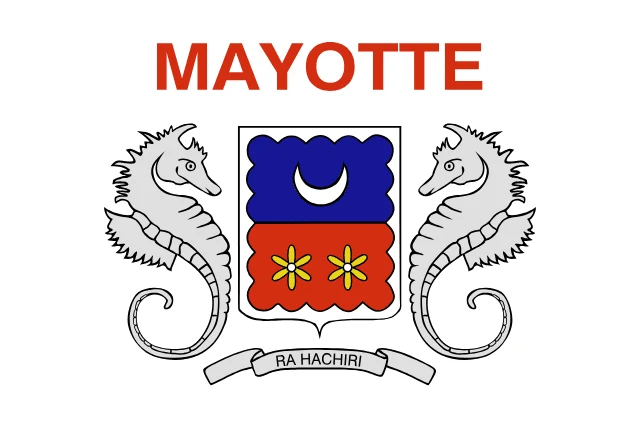
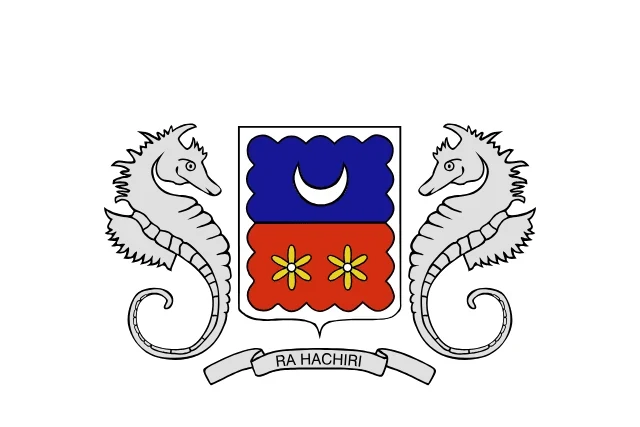
Hide the name on the Mayotte flag and reset its card

Changed region(s): [[0.2188, 0.0913, 0.7812, 0.2131]]

diff --git a/app/src/main/java/com/example/myapp/flashcards/Repository.kt b/app/src/main/java/com/example/myapp/flashcards/Repository.kt
@@ -157,6 +157,11 @@ class FlashcardRepository(private val context: Context) {
             SEEDS.filter { (version, _) -> version > seeded }.forEach { (_, file) -> seedAssets(file) }
             context.flashcardDataStore.edit { it[seedVersionKey] = SEEDS.last().first }
         }
+        val reset = context.flashcardDataStore.data.first()[resetVersionKey] ?: 0
+        if (reset < RESETS.last().first) {
+            RESETS.filter { (version, _) -> version > reset }.forEach { (_, id) -> resetElement(id) }
+            context.flashcardDataStore.edit { it[resetVersionKey] = RESETS.last().first }
+        }
         dao.purgeMasteredCards(SIX_MONTHS_MINUTES, builtinListIds)
         context.sweepCardImages(dao.getImages())
     }
@@ -179,6 +184,12 @@ class FlashcardRepository(private val context: Context) {
             4 to "seed_prefectures.json",
             4 to "seed_dept_numbers.json",
             5 to "seed_flags.json"
+        )
+        private val resetVersionKey = intPreferencesKey("reset_version")
+        // Builtin cards whose text or picture was edited, with the version that shipped the edit:
+        // their progress is wiped once, since they may have been learned from the old version.
+        private val RESETS = listOf(
+            1 to "flag-yt"
         )
         private const val SIX_MONTHS_MINUTES = 6 * 30 * 24 * 60
         private val builtinListIds = listOf(

diff --git a/src/generate_flags.py b/src/generate_flags.py
@@ -4,7 +4,7 @@ import json
 import urllib.request
 from pathlib import Path
 
-from PIL import Image
+from PIL import Image, ImageDraw
 
 ASSETS = Path("app/src/main/assets")
 FLAGS_DIR = ASSETS / "flags"
@@ -22,6 +22,14 @@ RENAMES = {
 }
 # Territories flying their sovereign's flag would be the same card with two answers.
 SOVEREIGN_FIRST = ["fr", "no", "us", "au", "gb", "nl"]
+# Flags that print their own name, painted over (box in the w640 image) so the card isn't given away.
+NAME_BOXES = {"yt": (145, 32, 495, 102)}
+
+
+def hide_name(image, code):
+    if code in NAME_BOXES:
+        ImageDraw.Draw(image).rectangle(NAME_BOXES[code], fill="white")
+    return image
 
 
 def fetch(url):
@@ -46,7 +54,7 @@ def main():
             print(f"{i}/{len(codes)} {code} skipped, same flag as {seen[digest]}", flush=True)
             continue
         seen[digest] = code
-        image.save(FLAGS_DIR / f"{code}.webp", "WEBP", quality=88, method=6)
+        hide_name(image, code).save(FLAGS_DIR / f"{code}.webp", "WEBP", quality=88, method=6)
         cards.append(
             {
                 "id": f"flag-{code}",

diff --git a/CLAUDE.md b/CLAUDE.md
@@ -7,6 +7,8 @@ After implementing a change, deploy it on the phone (see below) so Valentin can 
 
 Run `git push` with `run_in_background`: the pre-push hook runs the JVM unit tests through Gradle, and a push touching the mots fléchés tool adds the 2 minute generator test, past the 120 s foreground timeout.
 
+Any flashcard whose content is edited (text, answer or picture) gets its progress reset, since Valentin may have learned it the wrong way. For a builtin card, append its id to `RESETS` in `flashcards/Repository.kt` with the next version number; it is reset once at the next app start. A flag picture that gives its own name away is painted over through `NAME_BOXES` in `src/generate_flags.py`.
+
 For UI/layout changes with more than one reasonable arrangement (where to put a control, how a view is structured, an interaction model), sketch 2-3 concrete options up front with AskUserQuestion and let Valentin pick before writing any code. Don't implement your first interpretation and iterate from corrections.
 
 ## Language exception
